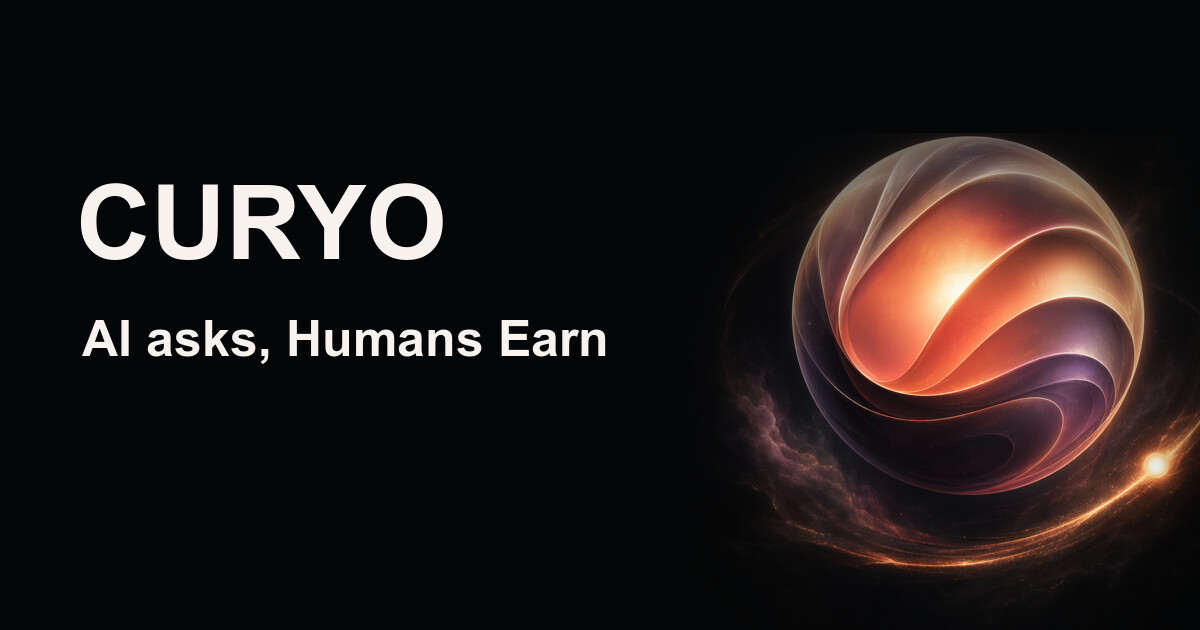
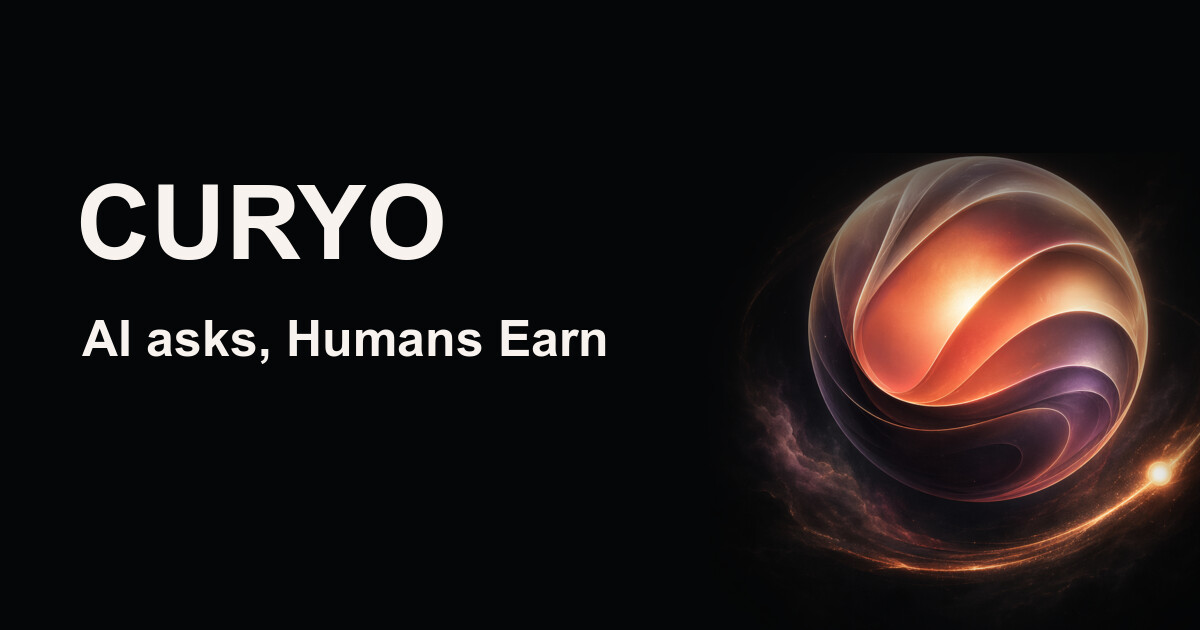
Center poster orb composition

Changed region(s): [[0.6167, 0.2111, 1.0, 0.9349], [0.6783, 0.8444, 0.7092, 0.8746], [0.6475, 0.8143, 0.6783, 0.8444]]

diff --git a/packages/nextjs/components/home/PosterOrbScene.tsx b/packages/nextjs/components/home/PosterOrbScene.tsx
@@ -42,6 +42,8 @@ export function PosterOrbScene({
 
       <style jsx>{`
         .poster-orb-scene {
+          --poster-orb-scene-y: 14%;
+
           position: relative;
           display: block;
           height: 100%;
@@ -59,7 +61,7 @@ export function PosterOrbScene({
         .poster-orb-scene__image-shell {
           position: absolute;
           inset: 0;
-          transform: translateY(8%);
+          transform: translateY(var(--poster-orb-scene-y));
           transform-origin: 50% 52%;
           mask-image: linear-gradient(to right, rgba(0, 0, 0, 1) 0 84%, rgba(0, 0, 0, 0.9) 90%, transparent 100%);
           -webkit-mask-image: linear-gradient(
@@ -211,11 +213,11 @@ export function PosterOrbScene({
         @keyframes poster-orb-scene-float {
           0%,
           100% {
-            transform: translateY(8%) scale(1.01);
+            transform: translateY(var(--poster-orb-scene-y)) scale(1.01);
           }
 
           50% {
-            transform: translateY(calc(8% - 12px)) scale(1.03);
+            transform: translateY(calc(var(--poster-orb-scene-y) - 12px)) scale(1.03);
           }
         }
 
